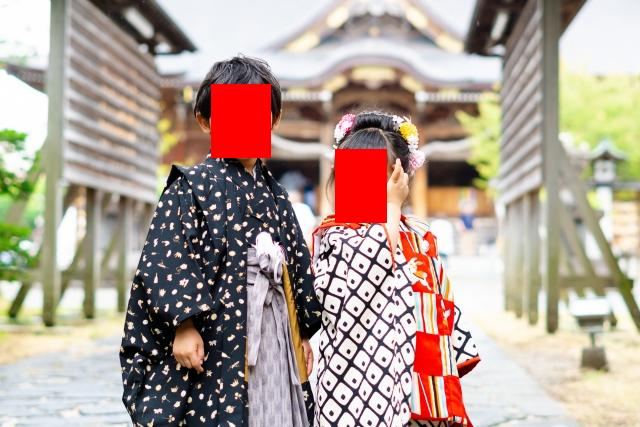
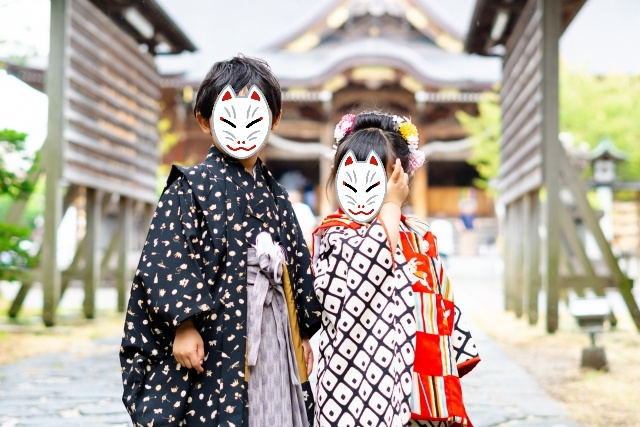
stamp

Changed region(s): [[0.3125, 0.1827, 0.4375, 0.3958], [0.5, 0.3349, 0.625, 0.548]]

diff --git a/backend/app/src/services/detect_face.py b/backend/app/src/services/detect_face.py
@@ -37,22 +37,28 @@ def detect_faces(
 
 
 def __detect_one_face(image, stamp, box: BoundingBox):
-    # 画像を BGR に変換（透過情報がない場合は無視）
-    if stamp.shape[2] == 4:
-        stamp = cv2.cvtColor(stamp, cv2.COLOR_BGRA2BGR)
 
     # 画像をリサイズ
     stamp = cv2.resize(stamp, (box.width, box.height))
+
+    if stamp.shape[2] == 4:  # 透過PNG対応
+        stamp_bgr = stamp[:, :, :3]  # BGRチャンネル
+        stamp_alpha = stamp[:, :, 3] / 255.0  # アルファチャンネル（0～1に正規化）
+    else:
+        stamp_bgr = stamp
+        stamp_alpha = np.ones((box.height, box.width))  # アルファがない場合は完全不透明
 
     # 貼り付ける領域の座標を計算
     x1, y1 = box.x_center - box.width // 2, box.y_center - box.height // 2
     x2, y2 = x1 + box.width, y1 + box.height
 
-    # 範囲を超えないように制限
-    x1, y1 = max(0, x1), max(0, y1)
-    x2, y2 = min(image.shape[1], x2), min(image.shape[0], y2)
+    image_part = image[y1:y2, x1:x2]
+
+    for c in range(3):  # B, G, R それぞれのチャンネルで合成
+        image_part[:, :, c] = (stamp_bgr[:, :, c] * stamp_alpha + image_part[:, :, c] * (1 - stamp_alpha)).astype(np.uint8)
+
 
     # 背景画像の該当部分を前景画像に置き換え
-    image[y1:y2, x1:x2] = stamp[:y2-y1, :x2-x1]
+    image[y1:y2, x1:x2] = image_part
 
     return image
